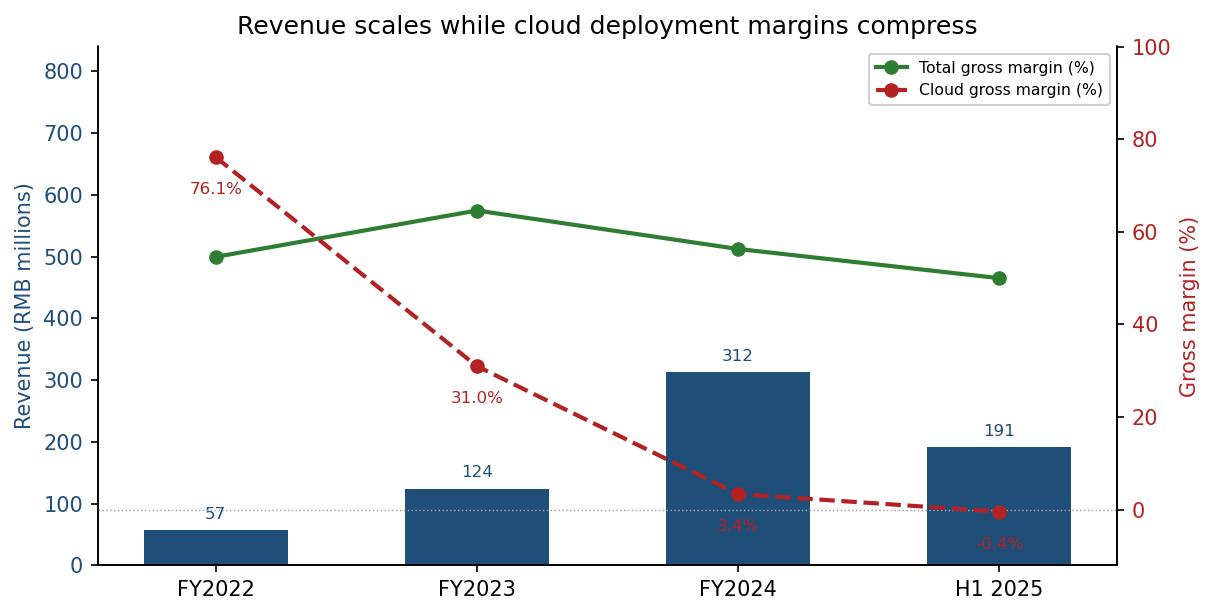
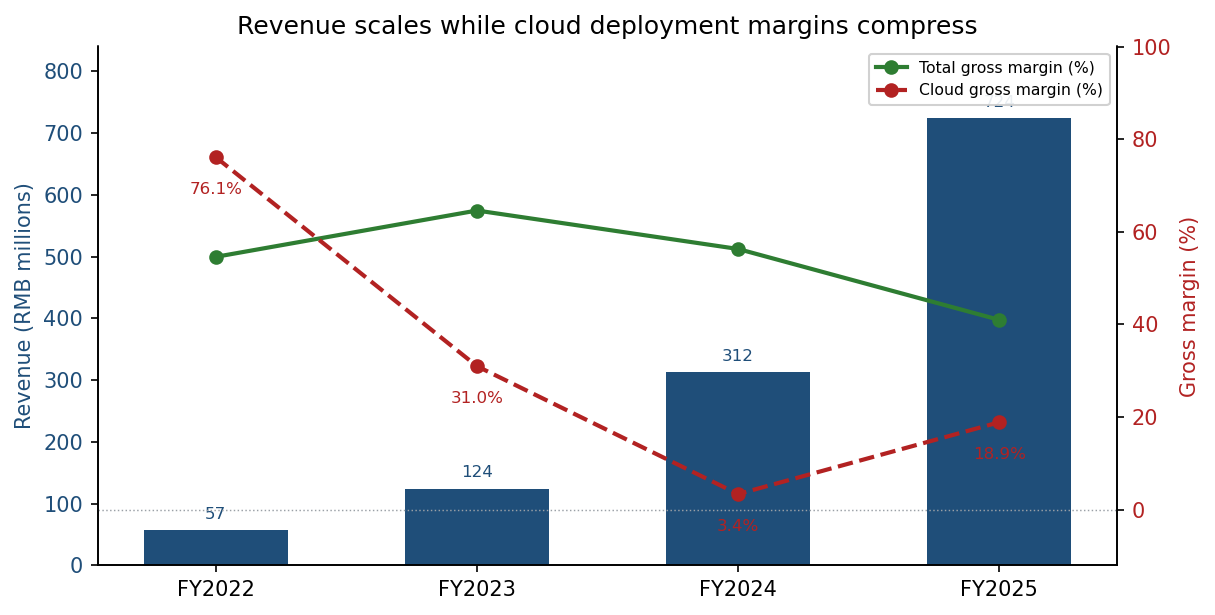
docs: update financials with 2025 annual report

diff --git a/paper/main.tex b/paper/main.tex
@@ -128,29 +128,29 @@ flagship models are released with open weights and aggressive token pricing, con
 into a usage flywheel via the Z.ai and Z.code platforms.
 
 \textbf{Financials (full statements in Appendix~\ref{sec:statements}).} Three facts dominate. \emph{(1)}
-Revenue is explosive but tiny: RMB~57.4m (2022) $\to$ RMB~312.4m (2024), with H1~2025 revenue of
-RMB~190.9m. For the DCF we use a FY2025E base of about RMB~724m (US\$102m), a run-rate estimate rather than a
-reported full-year figure. \emph{(2)} Total gross margin remained positive (50.0\% in H1~2025), but the
-strategically important cloud-deployment margin fell from 76.1\% (2022) to 3.4\% (2024) and to a $0.4\%$
-gross loss in H1~2025 as API prices were cut. \emph{(3)} Losses and leverage are deepening: H1~2025 net loss
-was RMB~2.36bn, and at 30~June~2025 the group reported net liabilities of RMB~6.15bn
-\citep{prospectus2513}. Zhipu is therefore \emph{early-commercial-stage and pre-profit}, with negative book
-equity---so ratio analysis is of
-limited use and the informative metrics are growth, cloud monetisation, and cash runway
-(Figure~\ref{fig:fin}).
+Revenue is explosive but tiny: RMB~57.4m (2022) $\to$ RMB~312.4m (2024) $\to$ RMB~724.3m
+(2025). For the DCF we use the reported FY2025 base of about RMB~724m (US\$102m). \emph{(2)} Total gross
+margin remained positive but compressed to 41.0\% in FY2025, while the strategically important
+cloud-deployment margin fell from 76.1\% (2022) to 3.4\% (2024) before recovering to 18.9\% in FY2025 as
+scale and inference optimisation offset part of the price pressure. \emph{(3)} Losses and leverage are still
+deep: FY2025 net loss was RMB~4.72bn, and at 31~December~2025 the group reported net liabilities of
+RMB~8.11bn \citep{prospectus2513,annualreport2513}. Zhipu is therefore
+\emph{early-commercial-stage and pre-profit}, with negative book equity---so ratio analysis is of limited use
+and the informative metrics are growth, cloud monetisation, and cash runway (Figure~\ref{fig:fin}).
 
 \begin{figure}[H]
 \centering
 \includegraphics[width=0.82\textwidth]{fig8_financial_profile.png}
 \caption{Zhipu's financial profile. Revenue compounds rapidly (RMB millions, left axis). Total gross margin
-remains positive, but cloud deployment margin compresses from 76.1\% in 2022 to a 0.4\% gross loss in
-H1~2025 as low-priced, compute-heavy API usage buys share. Source: Chapter~18C prospectus
-\citep{prospectus2513}.}
+remains positive, while cloud deployment margin compresses sharply from 76.1\% in 2022 to 3.4\% in 2024
+before recovering to 18.9\% in FY2025. Sources: Chapter~18C prospectus and 2025 annual report
+\citep{prospectus2513,annualreport2513}.}
 \label{fig:fin}
 \end{figure}
 
-\textbf{Listing and market reaction.} Zhipu priced at HK\$116.20, raising about HK\$4.3bn with HK\$3bn of
-cornerstone commitments, at an implied valuation near US\$6.7--7.4bn \citep{prospectus2513}. The listing is
+\textbf{Listing and market reaction.} Zhipu priced at HK\$116.20, raising about HK\$5.0bn after the
+over-allotment option with HK\$3bn of cornerstone commitments, at an implied valuation near US\$6.7--7.4bn
+\citep{prospectus2513,annualreport2513}. The listing is
 strategically remarkable
 on three counts: Chapter~18C gave a loss-making lab permanent public capital years before profitability; its
 first-listed-foundation-model status conferred a certification premium; and the stock
@@ -208,8 +208,8 @@ estimated regression beta would be unstable and dominated by IPO- and event-driv
 construct a bottom-up beta from global AI-software comparables, giving $\beta \approx 1.6$. With a risk-free
 rate of 4.0\% and an equity risk premium of 6.0\%, $K_e = 4.0\% + 1.6\times 6.0\% = 13.6\%$; as the firm is
 effectively all-equity, WACC~$\approx$~13.5\%. Throughout we use HK\$7.8/US\$, RMB~7.1/US\$, $\approx$435m
-shares, and net cash of about \textbf{US\$0.55bn}---net IPO proceeds of $\sim$HK\$4.3bn ($\sim$US\$0.55bn)
-plus pre-IPO cash of $\sim$US\$0.03bn. The pre-IPO net-liability position is dominated by redeemable preferred
+shares, and net cash of about \textbf{US\$0.55bn}---a conservative post-listing net-cash assumption after IPO
+proceeds, listing costs, borrowings and pre-IPO cash. The pre-IPO net-liability position is dominated by redeemable preferred
 shares that convert to ordinary equity on listing, so it is not post-IPO debt; treating any residual as debt
 would only lower equity value and reinforce our conclusion. Appendix~\ref{sec:beta} lists the comparable set
 and unlevering bridge.
@@ -508,36 +508,36 @@ event sample and uncertain cloud monetisation.
 \clearpage
 \section{Financial Statements Summary}
 \label{sec:statements}
-From the Chapter~18C prospectus (RMB; USD at $\approx$7.1).
+From the Chapter~18C prospectus and 2025 annual report (RMB; USD at $\approx$7.1).
 
 \begin{table}[H]
 \centering
 \caption{Income-statement summary (RMB millions unless noted).}
 \begin{tabular}{lcccc}
 \toprule
- & FY2022 & FY2023 & FY2024 & H1 2025 \\
+ & FY2022 & FY2023 & FY2024 & FY2025 \\
 \midrule
-Revenue & 57.4 & 124.5 & 312.4 & 190.9 \\
-Total gross margin & 54.6\% & 64.6\% & 56.3\% & 50.0\% \\
-Cloud gross margin & 76.1\% & 31.0\% & 3.4\% & $-0.4\%$ \\
-Net loss & 143.7 & 788.0 & 2{,}958.0 & 2{,}357.9 \\
+Revenue & 57.4 & 124.5 & 312.4 & 724.3 \\
+Total gross margin & 54.6\% & 64.6\% & 56.3\% & 41.0\% \\
+Cloud gross margin & 76.1\% & 31.0\% & 3.4\% & 18.9\% \\
+Net loss & 143.7 & 788.0 & 2{,}958.0 & 4{,}718.2 \\
 \bottomrule
 \end{tabular}
 \end{table}
 
 \begin{table}[H]
 \centering
-\caption{Balance-sheet highlights (RMB millions, at 30~June~2025).}
+\caption{Balance-sheet highlights (RMB millions, at 31~December~2025 unless noted).}
 \begin{tabular}{lc}
 \toprule
 Item & Amount \\
 \midrule
-Cash and cash equivalents & 2{,}552.0 \\
-Net liabilities (negative equity) & $-6{,}150.8$ \\
-Net current liabilities & $-7{,}088.9$ \\
+Cash and cash equivalents & 2{,}259.1 \\
+Net liabilities (negative equity) & $-8{,}111.0$ \\
+Net current liabilities & $-8{,}834.8$ \\
 \midrule
 Shares outstanding (post-IPO, approx.) & $\approx$435m \\
-IPO price / gross proceeds & HK\$116.20 / $\approx$HK\$4.3bn \\
+IPO price / gross proceeds & HK\$116.20 / $\approx$HK\$5.0bn \\
 \bottomrule
 \end{tabular}
 \end{table}
@@ -551,8 +551,8 @@ valuation in Section~\ref{sec:val} must rest on future-option logic rather than 
 \label{sec:proj}
 Base-case chain (US\$m unless noted), reproducing the live workbook: WACC~$=13.5\%$, statutory tax~$=15\%$,
 terminal $g=4\%$, sales-to-capital~$=1.8$, $\approx$435m shares, HK\$7.8/US\$. Revenue grows from US\$200m in
-2026, with growth fading from 56\% in 2027 to 8\% in 2035; the 2025 base of about US\$102m is a FY2025E
-run-rate estimate. Operating margin ramps $-30\%\!\to\!28\%$. Cash tax is zero while EBIT
+2026, with growth fading from 56\% in 2027 to 8\% in 2035; the 2025 base of about US\$102m is reported FY2025
+revenue. Operating margin ramps $-30\%\!\to\!28\%$. Cash tax is zero while EBIT
 is negative; losses accumulate as NOLs and shelter future positive EBIT until exhausted.
 
 \begin{table}[H]
@@ -639,6 +639,11 @@ Tushare. (2026). \emph{Tushare Pro financial data API: Hong Kong daily quotation
 Knowledge Atlas Technology Joint Stock Company Limited (Zhipu AI). (2025). \emph{Global offering prospectus
 (Stock code 2513)} [Chapter~18C listing document]. HKEXnews.
 \url{https://www1.hkexnews.hk/listedco/listconews/sehk/2025/1230/2025123000017.pdf}
+
+\bibitem{annualreport2513}
+Knowledge Atlas Technology Joint Stock Company Limited (Zhipu AI). (2026). \emph{2025 annual report
+(Stock code 2513)}. HKEXnews.
+\url{https://www1.hkexnews.hk/listedco/listconews/sehk/2026/0419/2026041900085.pdf}
 
 \bibitem{prospectus100}
 MiniMax Inc. (2025). \emph{Global offering prospectus (Stock code 100)}. HKEXnews.

diff --git a/scripts/rebuild_outputs.py b/scripts/rebuild_outputs.py
@@ -621,11 +621,11 @@ def write_comps_chart() -> None:
 
 def write_financial_profile() -> None:
     """Company-introduction figure: revenue compounding vs cloud-margin compression."""
-    labels = ["FY2022", "FY2023", "FY2024", "H1 2025"]
+    labels = ["FY2022", "FY2023", "FY2024", "FY2025"]
     x = np.arange(len(labels))
-    revenue = np.array([57.4, 124.5, 312.4, 190.9])  # RMB millions
-    total_margin = np.array([54.6, 64.6, 56.3, 50.0])  # %, FY2025 point is H1 2025
-    cloud_margin = np.array([76.1, 31.0, 3.4, -0.4])  # %, FY2025 point is H1 2025
+    revenue = np.array([57.4, 124.5, 312.4, 724.3])  # RMB millions
+    total_margin = np.array([54.6, 64.6, 56.3, 41.0])
+    cloud_margin = np.array([76.1, 31.0, 3.4, 18.9])
 
     fig, ax1 = plt.subplots(figsize=(8.2, 4.2), dpi=150)
     rev_mask = ~np.isnan(revenue)
@@ -670,7 +670,7 @@ def write_glm_timeline() -> None:
         ("2019", "Founded — Tsinghua KEG", C_TEAL),
         ("2022", "GLM family · cloud GM 76%", C_TEAL),
         ("2024", "Revenue RMB 312m", C_TEAL),
-        ("H1 2025", "Revenue RMB 191m · total GM 50%", C_TEAL),
+        ("FY2025", "Revenue RMB 724m · total GM 41%", C_TEAL),
         ("8 Jan 2026", "IPO HK$116.20 · Ch.18C", C_GREEN),
         ("11 Feb 2026", "GLM-5", C_ORANGE),
         ("16 Mar 2026", "GLM-5-Turbo", C_ORANGE),

diff --git a/DATA_TABLES.md b/DATA_TABLES.md
@@ -1,7 +1,7 @@
 # Data Tables — Zhipu (2513.HK), MiniMax (00100.HK), Wenge AI (01956.HK)
 
 Market data via **Tushare `hk_daily`** cross-checked with HKEX, **as of 2026-06-26** (CSV in `data/`).
-Fundamentals from the **HKEX Chapter-18C prospectus** (stock code 2513). All figures consistent with the paper.
+Fundamentals from the **HKEX Chapter-18C prospectus** and **2025 Annual Report** (stock code 2513). All figures consistent with the paper.
 
 ---
 
@@ -45,12 +45,11 @@ Fundamentals from the **HKEX Chapter-18C prospectus** (stock code 2513). All fig
 | FY2022 | RMB 57.4M | total 54.6%; cloud 76.1% | RMB 143.7M |
 | FY2023 | RMB 124.5M | total 64.6%; cloud 31.0% | RMB 788.0M |
 | FY2024 | RMB 312.4M (~US$44M) | total 56.3%; cloud 3.4% | RMB 2,958M |
-| H1 2025 | RMB 190.9M | total 50.0%; cloud −0.4% | RMB 2,357.9M |
-| FY2025E model base | RMB 724.3M (~US$102M) | model assumption | n/a |
+| FY2025 | RMB 724.3M (~US$102M) | total 41.0%; cloud 18.9% | RMB 4,718M |
 | FY2026E | ~US$200M | model assumption | n/a |
 
-Balance sheet @ 30-Jun-2025: net liabilities **−RMB 6,150.8M** (negative equity), net current liabilities
-−RMB 7,088.9M, cash and cash equivalents RMB 2,552.0M. Shares outstanding ~435M. FX: HK$7.8/US$, RMB 7.1/US$.
+Balance sheet @ 31-Dec-2025: net liabilities **−RMB 8,111.0M** (negative equity), net current liabilities
+−RMB 8,834.8M, cash and cash equivalents RMB 2,259.1M. Shares outstanding ~435M. FX: HK$7.8/US$, RMB 7.1/US$.
 **Implied market equity value / revenue ≈ 570× FY26E** (US$114B / US$200M).
 
 ## Table D5 — Product / Competitive Data (leaderboard thread)

diff --git a/README.md b/README.md
@@ -23,7 +23,7 @@
 
 ### 一句话概览
 
-本项目对全球**首家上市的基础大模型公司**——智谱AI（Knowledge Atlas，2513.HK，2026-01-08 经港交所第18C章上市）——做公司金融估值与定价机制研究。核心不是"算出一个目标价"，而是回答一个反直觉的问题：**一家 2026 年预计收入仅约 2 亿美元、深度亏损、净权益为负且云部署毛利率已跌至 −0.4% 的"早期商业化、尚未盈利"公司，为何上市约五个月暴涨约 17 倍、市值达约 1140 亿美元（股权价值/收入约 570 倍）？**
+本项目对全球**首家上市的基础大模型公司**——智谱AI（Knowledge Atlas，2513.HK，2026-01-08 经港交所第18C章上市）——做公司金融估值与定价机制研究。核心不是"算出一个目标价"，而是回答一个反直觉的问题：**一家 2025 年收入仅约 1.02 亿美元、2026 年预计收入约 2 亿美元、深度亏损、净权益为负的"早期商业化、尚未盈利"公司，为何上市约五个月暴涨约 17 倍、市值达约 1140 亿美元（股权价值/收入约 570 倍）？**
 
 **主结论：** 这既不是单纯的泡沫，也不是有效定价，而是 **"对赢家通吃 AGI 结局的看涨期权 + 能力动量定价"**。基本面 DCF 概率加权约 HK$33/股（约为市价的 1.6%）；现价隐含 2035 年收入约 1300 亿美元、2026–2035 年约 105% 的年增速（9 个增长区间）。市场的价格发现已从"盈余惊喜"转向**"能力惊喜"**——围绕模型发布与榜单登顶定价。
 
@@ -113,7 +113,7 @@ WACC ≈ 13.5%（CAPM，自下而上 β≈1.6，Rf 4%，ERP 6%）；口径统一
 来源优先级：**HKEX 招股书与公告 > 官方模型卡/技术报告 > 恒生指数公司公告 > 正式市场数据库**；新闻媒体仅作佐证。
 
 - **行情：** Tushare `hk_daily`（2513.HK、00100.HK、01956.HK）与 HKEX 日行情交叉核对，见 [`data/`](data/)。
-- **财务：** 港交所第18C章招股书及 H1 2025 中报（论文附录 A）。
+- **财务：** 港交所第18C章招股书及 2025 年度报告（论文附录 A）。
 - **能力事件：** GLM/MiniMax 官方模型卡与 SWE-Bench Pro 等榜单。
 - **指数/资金流：** 恒生指数公司指数调整公告、HKEX/SSE 港股通名单。
 
@@ -161,7 +161,7 @@ A corporate-finance valuation and price-discovery study of the world's **first p
 foundation-model company** — Zhipu AI (Knowledge Atlas, 2513.HK, listed on the HKEX Main Board under
 Chapter 18C on 2026-01-08). The question is not a target price but a counter-intuitive one: **why did an
 early-commercial-stage, pre-profit firm — ~US$200m expected 2026 revenue, deep losses, negative book equity,
-and a cloud-deployment gross margin down to −0.4% — rise ~17x in five months to a ~US$114B market cap
+and volatile cloud-deployment economics — rise ~17x in five months to a ~US$114B market cap
 (≈570× equity value / revenue)?**
 
 **Main conclusion:** neither a simple bubble nor efficient pricing, but **a call option on a winner-take-all